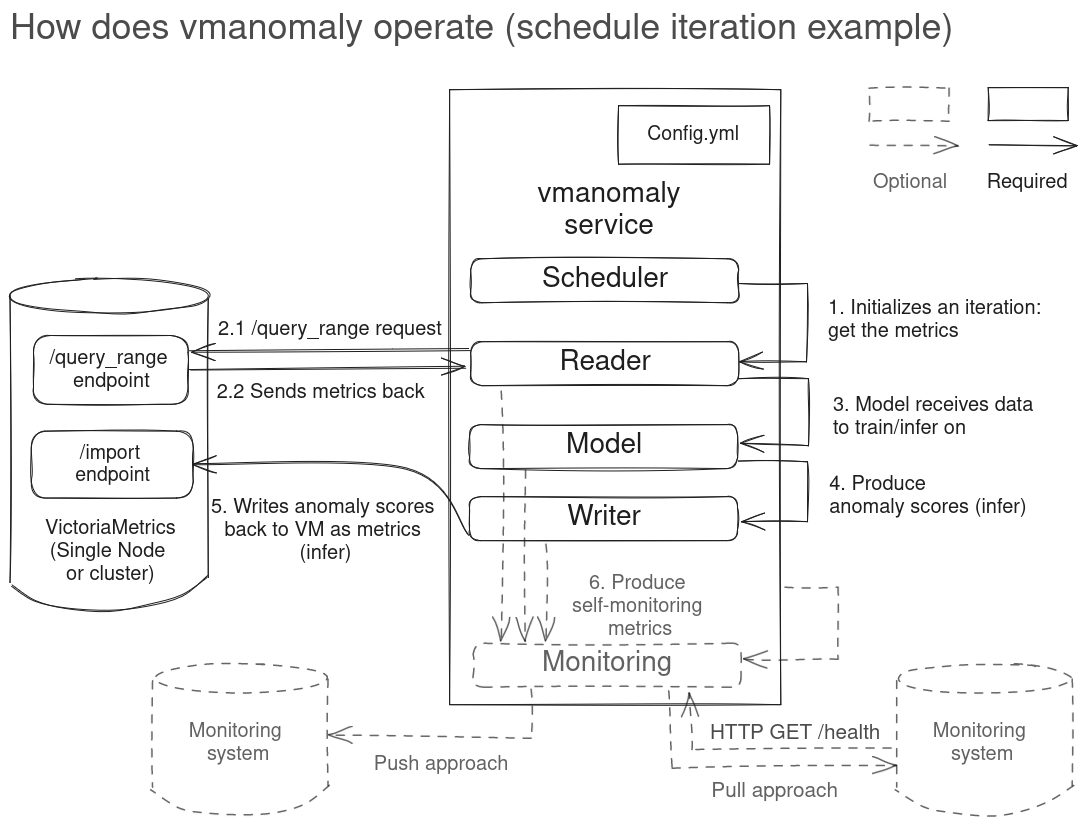
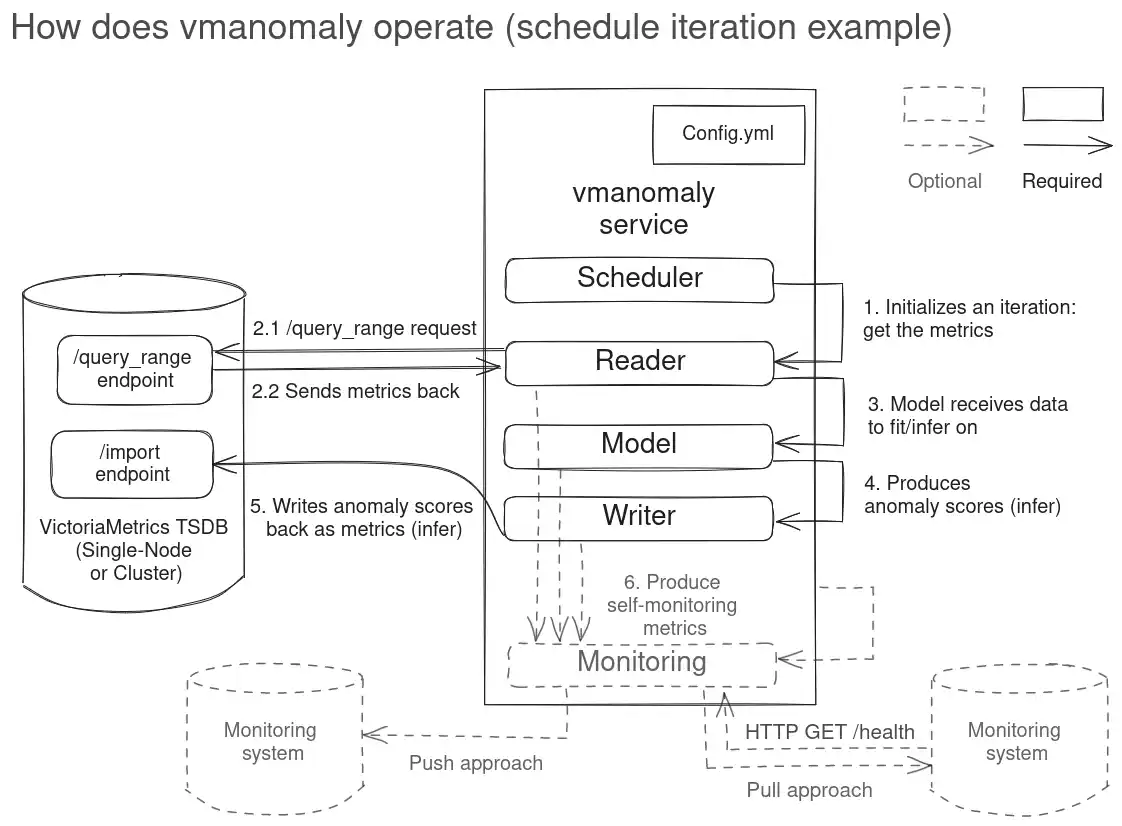
- fix 404 links after renaming (#5653)
- improve wording on diagram
- swap enterprise/about chapters for page clarity

diff --git a/docs/anomaly-detection/README.md b/docs/anomaly-detection/README.md
@@ -14,15 +14,15 @@ In the dynamic and complex world of system monitoring, VictoriaMetrics Anomaly D
 ## Practical Guides and Installation
 Begin your VictoriaMetrics Anomaly Detection journey with ease using our guides and installation instructions:
 
-- **Overview**: Find out how `vmanomaly` service operates [here](/anomaly-detection/overview.html)
+- **Overview**: Find out how `vmanomaly` service operates [here](/anomaly-detection/Overview.html)
 - **Integration**: Integrate anomaly detection into your observability ecosystem. Get started [**here**](/anomaly-detection/guides/guide-vmanomaly-vmalert.html).
 
 - **Installation Options**: Select the method that aligns with your technical requirements:
-    - **Docker Installation**: Suitable for containerized environments. See [Docker guide](/anomaly-detection/overview#run-vmanomaly-docker-container).
+    - **Docker Installation**: Suitable for containerized environments. See [Docker guide](/anomaly-detection/Overview.html#run-vmanomaly-docker-container).
     - **Helm Chart Installation**: Appropriate for those using Kubernetes. See our [Helm charts](https://github.com/VictoriaMetrics/helm-charts/tree/master/charts/victoria-metrics-anomaly).
 
 
-> Note: starting from [v1.5.0](./CHANGELOG.md#v150) `vmanomaly` requires a [license key](/anomaly-detection/overview#licensing) to run. You can obtain a trial license key [**here**](https://victoriametrics.com/products/enterprise/trial/index.html).
+> **Note**: starting from [v1.5.0](./CHANGELOG.md#v150) `vmanomaly` requires a [license key](/anomaly-detection/Overview.html#licensing) to run. You can obtain a trial license key [**here**](https://victoriametrics.com/products/enterprise/trial/index.html).
 
 ## Key Components
 Explore the integral components that configure VictoriaMetrics Anomaly Detection:

diff --git a/docs/anomaly-detection/FAQ.md b/docs/anomaly-detection/FAQ.md
@@ -18,6 +18,8 @@ VictoriaMetrics Anomaly Detection, also known as `vmanomaly`, is a service for d
 
 Please refer to [our guide section](/anomaly-detection/#practical-guides-and-installation) to find out more.
 
+> **Note: `vmanomaly` is a part of [enterprise package](https://docs.victoriametrics.com/enterprise.html). You need to get a [free trial license](https://victoriametrics.com/products/enterprise/trial/) for evaluation.**
+
 ## What is anomaly score?
 Among the metrics produced by `vmanomaly` (as detailed in [vmanomaly output metrics](/anomaly-detection/components/models.html#vmanomaly-output)), `anomaly_score` is a pivotal one. It is **a continuous score > 0**, calculated in such a way that **scores ranging from 0.0 to 1.0 usually represent normal data**, while **scores exceeding 1.0 are typically classified as anomalous**. However, it's important to note that the threshold for anomaly detection can be customized in the alert configuration settings.
 
@@ -30,7 +32,6 @@ The decision to set the changepoint at `1.0` is made to ensure consistency acros
 
 1. For more detailed information, please visit the [overview section](/anomaly-detection/Overview.html#about).
 2. To view a diagram illustrating the interaction of components, please explore the [components section](/anomaly-detection/components/).
-
 
 ## What data does vmanomaly operate on?
 `vmanomaly` operates on data fetched from VictoriaMetrics, where you can leverage full power of [MetricsQL](https://docs.victoriametrics.com/MetricsQL.html) for data selection, sampling, and processing. Users can also [apply global filters](https://docs.victoriametrics.com/#prometheus-querying-api-enhancements) for more targeted data analysis, enhancing scope limitation and tenant visibility.

diff --git a/docs/anomaly-detection/Overview.md b/docs/anomaly-detection/Overview.md
@@ -14,8 +14,6 @@ aliases:
 
 # Overview
 
-**_vmanomaly_ is a part of [enterprise package](https://docs.victoriametrics.com/enterprise.html). You need to request a [free trial license](https://victoriametrics.com/products/enterprise/trial/) for evaluation.**
-
 ## About
 
 **VictoriaMetrics Anomaly Detection** (or shortly, `vmanomaly`) is a service that continuously scans VictoriaMetrics time
@@ -35,6 +33,8 @@ while anomaly detection looks for any deviations from past behavior.
 In addition to that, setting up alerting rules manually has been proven to be tedious and
 error-prone, while anomaly detection can be easier to set up, and use the same model for different
 metrics.
+
+> **Note: `vmanomaly` is a part of [enterprise package](https://docs.victoriametrics.com/enterprise.html). You need to get a [free trial license](https://victoriametrics.com/products/enterprise/trial/) for evaluation.**
 
 ## How?
 

diff --git a/docs/vmanomaly.md b/docs/vmanomaly.md
@@ -8,6 +8,6 @@ menu:
     weight: 11
 ---
 
-vmanomaly currently has own section.
+vmanomaly currently has its own section.
 
 Please head to [Anomaly Detection section](/anomaly-detection) to find out more.
